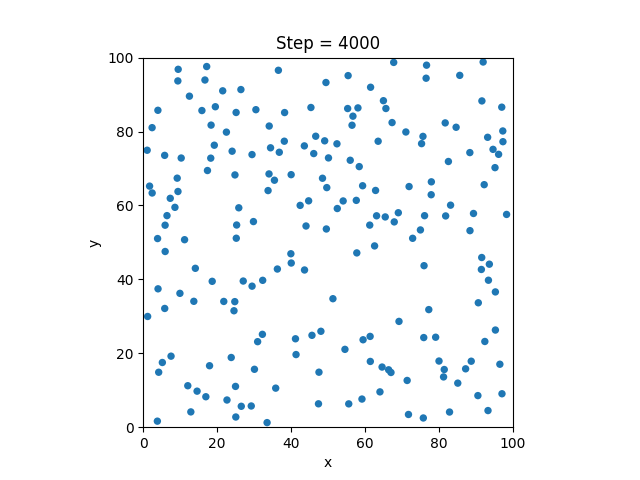
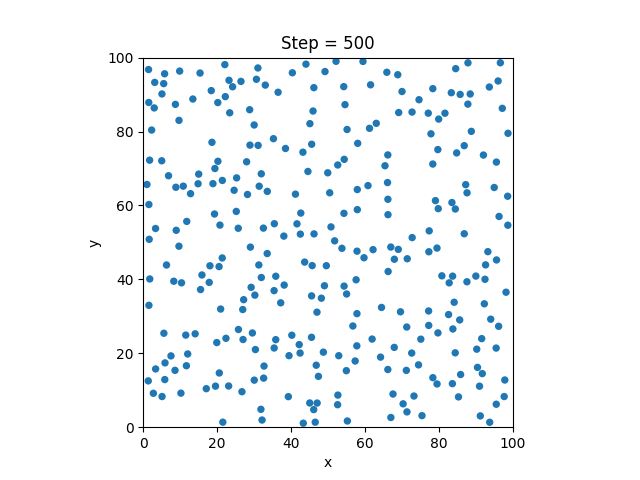
m

diff --git a/T2 Ideal Gas Simulation/main.py b/T2 Ideal Gas Simulation/main.py
@@ -123,9 +123,9 @@ class Simulation():
         self.P = 0
         self.T = 0
 
-        self.kb = 1.380649*10**-23
+        self.kb = 0.1
         self.collision_number = 0
-        self.L_P = deque([0]*10)
+        self.L_P = deque([0]*100)
         self.L_T = deque([0]*10)
 
         self.L_residual = list()
@@ -182,7 +182,7 @@ class Simulation():
 
     def update_variables(self):
         N = self.N_particles
-        P = self.total_dp/(self.Particles.dt*self.Particles.L*N)
+        P = self.total_dp/(self.Particles.dt*4*self.Particles.L)
         T = (2/2)*(1/(N*self.kb))*self.E
 
         self.L_P.append(P)
@@ -340,8 +340,8 @@ if __name__=='__main__':
         'dt': 0.005
     }
 
-    IdealGas = Simulation(Particles, N=200, **parameters)
-    IdealGas.run_simulation(N_steps=4000, plot=False)
+    IdealGas = Simulation(Particles, N=300, **parameters)
+    IdealGas.run_simulation(N_steps=500, plot=False)
     IdealGas.postprocessing()
 
 
